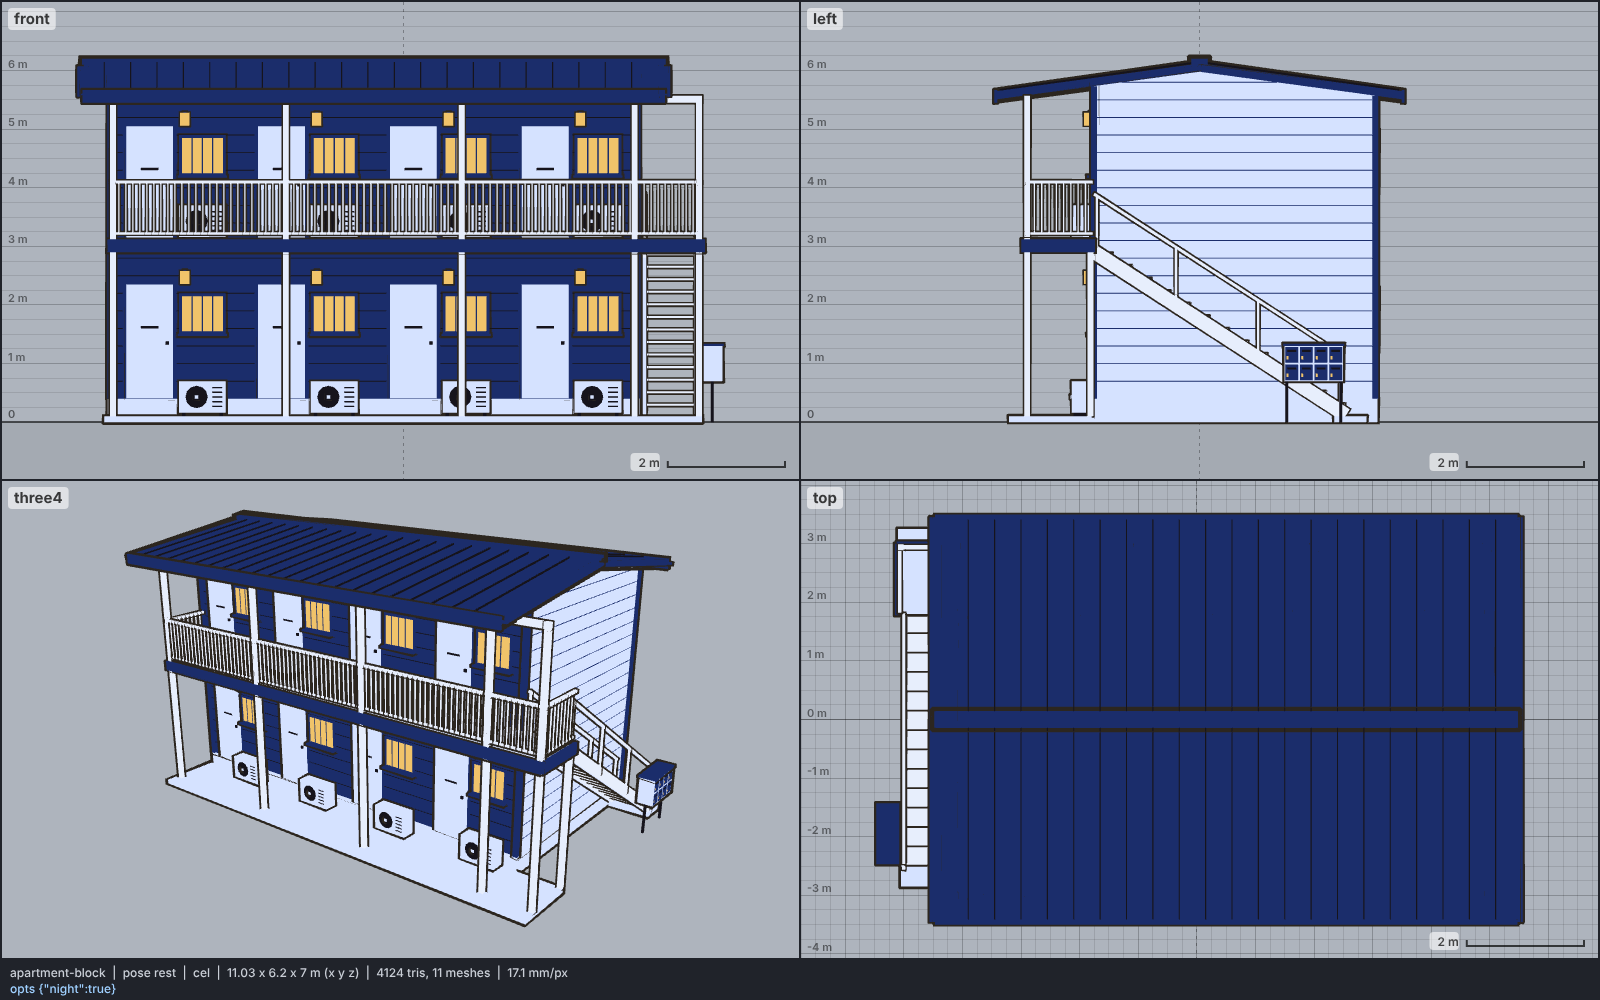
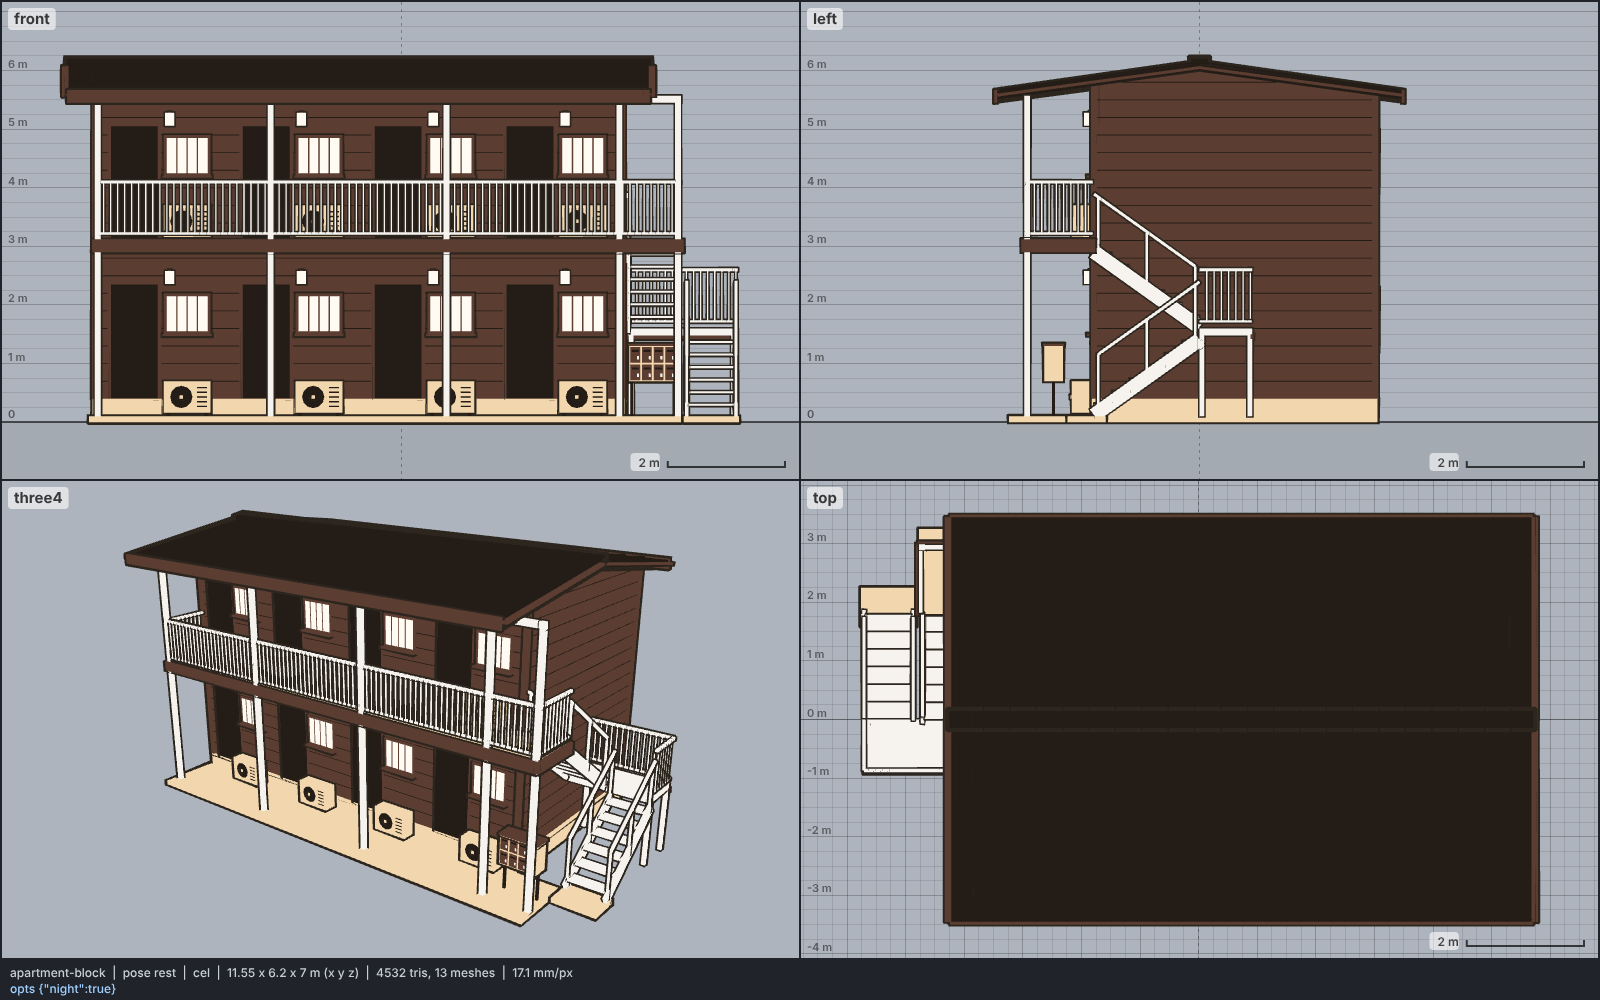
models: apartment-block, noon-only night and a switchback stair from the street end
Night now stays on the noon script (non-practicals flat in shade, siding iris,
lamps and frosted windows glow practical); no off-script colours on any shot.
The stair is a switchback whose foot faces the street; the mailboxes stand
under the landing beside it.

Claude-Session: https://claude.ai/code/session_01RarBCdt4E1fNHHaUKaW5GL

diff --git a/models/apartment-block.js b/models/apartment-block.js
@@ -11,30 +11,31 @@
 //   WALKWAY   the open second-floor corridor along the front on steel posts: a slab with a dark edge band, a steel
 //             railing (top and bottom rails, balusters every 0.12 m), returning at both ends; it runs on past the +X
 //             wall as the stair landing.
-//   STAIR     an external straight steel stair along the +X end wall, foot at the back, top at the landing: two
-//             channel stringers, open treads, a handrail on posts on both sides, a post under the landing.
+//   STAIR     an external switchback steel stair along the +X end wall: flight 1 (outer lane) climbs from its foot at
+//             the street end to a mid landing at the back, flight 2 (against the wall) climbs back onto the walkway
+//             landing. Channel stringers, open treads, handrails on posts on both sides, a railed mid landing on posts.
 //   UNITS     per unit and floor: a steel door in a frame (knob, mail slot), a door lamp on a bracket above it, a small
 //             frosted window with a grille, an AC outdoor unit (fan disc, grille bars) under the window; the 2F set
 //             stands on the walkway, the 1F set on the apron. Back walls get one sash window per unit and floor, the
-//             -X end one small window per floor. A row of mailboxes (one per unit) on legs at the foot of the stair.
+//             -X end one small window per floor. A bank of mailboxes (one per unit, two rows) on legs under the landing,
+//             beside the stair foot, facing the street.
 //   Every triangle is wound away from a point inside its solid (box centre, prism centroid, a point behind a flat
 //   quad), never by hand.
 // Proportions (real size, base unit the storey S = 2.7 m): walls 9.0 x 4.8, walkway 1.2 deep, overall ~10.4 x 6.8 at
 //   the eaves; 1F floor 0.4, 2F floor 3.1, eave 5.65, ridge cap top 6.2 (2.3 S); doors 0.8 x 1.95, windows 0.7 x 0.6,
-//   railing 1.0, stair 0.9 wide with 14 risers of 0.21 over a 4.3 m run (35 deg), mailboxes 0.25 x 0.28 x 0.35.
+//   railing 1.0, stair lanes 0.84 wide, 2 x 7 risers of 0.21 on 0.3 m treads (35 deg), mid landing 0.9 deep at 1.6,
+//   mailboxes 0.2 x 0.3 x 0.32 each.
 // Options: build(THREE, kit, colors, { height = 6.2, units = 4, night = false }).
 //   height  scales the whole building uniformly (the ridge cap's top).
 //   units   doors per floor, 2-4 (clamped); unit width 9 / units.
-//   night   the door lamps and the frosted windows glow (threshold -0.25, base only). With the default colours, night
-//           switches to meta.nightColors, the same roles on the indigo script; a film passing its own colours keeps
-//           them and only the glow changes.
-// Colours (noon by day): siding sky #f2d7ae / skin #f0c2ae (threshold 0.1, so the street face stays lit) with iris
+//   night   the sun goes off, still on noon: every part that is not a practical sits flat in its shade (threshold 2):
+//           roof and doors hair, steel sclera, concrete sky; the siding goes wallNight iris #5c3d32 flat with hair lines
+//           (its day shade, skin, is too close to sky to read as night); door lamps and frosted windows glow practical.
+// Colours (noon): siding sky #f2d7ae / skin #f0c2ae (threshold 0.1, so the street face stays lit) with iris
 //   #5c3d32 siding lines and corner trims; roof iris / hair #241c16 (0.25) with hair seams; doors iris / hair; steel
 //   (stair, railing, posts) moon #fff6e4 / sclera #f6f3ee with ink; walkway edge band, frames, grilles iris flat;
-//   frosted glass practical #fffaf2 / sclera; lamps moon; concrete and AC units sclera / sky; fan discs and slots hair.
-// Night (indigo): siding moon #d5e2ff / sky #1b2d6b at 0.35, so the street face goes navy and the lit gable end stays
-//   pale; lines sky / hair; steel line #e7eefc / moon; roof sky / hair; doors moon / sky; glass and lamps practical
-//   #f0c36a glowing; concrete moon / sky.
+//   frosted glass sclera / sky by day, practical #fffaf2 at night; lamps sclera / practical; concrete and AC units
+//   sclera / sky; fan discs and slots hair.
 
 export const meta = {
   name: "apartment-block",
@@ -48,23 +49,12 @@ export const meta = {
     door: "#5c3d32", doorShade: "#241c16",
     steel: "#fff6e4", steelShade: "#f6f3ee",
     trim: "#5c3d32",
-    glass: "#fffaf2", glassShade: "#f6f3ee",
-    lamp: "#fff6e4",
+    glass: "#f6f3ee", glassShade: "#f2d7ae",
+    lamp: "#f6f3ee",
+    glow: "#fffaf2",
+    wallNight: "#5c3d32",
     concrete: "#f6f3ee", concreteShade: "#f2d7ae",
     dark: "#241c16",
-  },
-  nightColors: {
-    wall: "#d5e2ff", wallShade: "#1b2d6b",
-    line: "#1b2d6b", lineShade: "#16141c",
-    roof: "#1b2d6b", roofShade: "#16141c",
-    seam: "#16141c",
-    door: "#d5e2ff", doorShade: "#1b2d6b",
-    steel: "#e7eefc", steelShade: "#d5e2ff",
-    trim: "#1b2d6b",
-    glass: "#f0c36a", glassShade: "#f0c36a",
-    lamp: "#f0c36a",
-    concrete: "#d5e2ff", concreteShade: "#1b2d6b",
-    dark: "#16141c",
   },
   poses: ["rest"],
 };
@@ -72,7 +62,7 @@ export const meta = {
 export function build(THREE, kit, colors = meta.colors, opts = {}) {
   const { height = meta.height, night = false } = opts;
   const units = Math.max(2, Math.min(4, Math.round(opts.units ?? 4)));
-  const c = night && colors === meta.colors ? meta.nightColors : colors;
+  const c = colors;
   const root = new THREE.Group();
   root.name = "apartment-block";
   const body = new THREE.Group(); // the uniform size scale lives here
@@ -80,7 +70,7 @@ export function build(THREE, kit, colors = meta.colors, opts = {}) {
   body.scale.setScalar(height / meta.height);
   root.add(body);
   const shift = new THREE.Group(); // centres the bbox (the stair and mailboxes stick out on +X)
-  shift.position.x = -0.5;
+  shift.position.x = -0.73;
   body.add(shift);
   const joints = {};
 
@@ -133,7 +123,7 @@ export function build(THREE, kit, colors = meta.colors, opts = {}) {
   // ---------- plan ----------
   const X0 = -4.5, X1 = 4.5, ZB = -3.0, ZF = 1.8, WZ = 3.0; // walls, walkway outer edge
   const F1 = 0.4, F2 = 3.1, RAIL = 1.0; // floor levels, railing height
-  const XL = 5.6; // the landing's +X edge
+  const XL = 5.5; // the landing's +X edge (over the stair's inner lane)
   const RZ = 3.45, RX0 = X0 - 0.45, RX1 = X1 + 0.45; // roof half-depth and ends
   const RT = 6.12, RP = (RT - 5.65) / RZ, RTH = 0.14; // ridge top, pitch, slab thickness
   const under = (z) => RT - RTH - RP * Math.abs(z); // roof underside
@@ -180,53 +170,69 @@ export function build(THREE, kit, colors = meta.colors, opts = {}) {
   for (const [z0, z1, x] of [[ZF, WZ, X0 - 0.02], [ZF - 0.02, WZ, XL + 0.02]]) box("trim", x - 0.03, x + 0.03, F2 - 0.2, F2 + 0.02, z0, z1);
   // posts from the apron to the roof
   for (const x of [X0 + 0.05, -1.5, 1.5, X1 - 0.05, XL - 0.05]) cbox("steel", x, (0.1 + under(WZ)) / 2, WZ - 0.06, 0.1, under(WZ) - 0.1, 0.1);
-  cbox("steel", XL - 0.05, (0.1 + F2) / 2, ZF + 0.06, 0.1, F2 - 0.1, 0.1); // under the landing's back corner
   beam("steel", [X0, under(WZ) - 0.06, WZ - 0.06], [XL, under(WZ) - 0.06, WZ - 0.06], 0.08, 0.12); // head beam
-  // railing: rails and balusters along the front, returns at both ends
-  const railRun = (a, b) => {
+  // railing: rails and balusters from a to b on a floor at y0
+  const railRun = (a, b, y0 = F2) => {
     const L = Math.hypot(b[0] - a[0], b[2] - a[2]);
-    beam("steel", [a[0], F2 + RAIL, a[2]], [b[0], F2 + RAIL, b[2]], 0.06, 0.05);
-    beam("steel", [a[0], F2 + 0.12, a[2]], [b[0], F2 + 0.12, b[2]], 0.04, 0.04);
+    beam("steel", [a[0], y0 + RAIL, a[2]], [b[0], y0 + RAIL, b[2]], 0.06, 0.05);
+    beam("steel", [a[0], y0 + 0.12, a[2]], [b[0], y0 + 0.12, b[2]], 0.04, 0.04);
     const n = Math.max(1, Math.round(L / 0.12));
     for (let i = 1; i < n; i++) {
       const t = i / n, x = a[0] + (b[0] - a[0]) * t, z = a[2] + (b[2] - a[2]) * t;
-      cbox("steel", x, F2 + (0.12 + RAIL) / 2, z, 0.022, RAIL - 0.12, 0.022);
+      cbox("steel", x, y0 + (0.12 + RAIL) / 2, z, 0.022, RAIL - 0.12, 0.022);
     }
   };
   railRun([X0 + 0.03, 0, WZ - 0.06], [XL - 0.03, 0, WZ - 0.06]);
   railRun([X0 + 0.03, 0, ZF + 0.05], [X0 + 0.03, 0, WZ - 0.06]);
   railRun([XL - 0.03, 0, ZF + 0.02], [XL - 0.03, 0, WZ - 0.06]);
 
-  // ---------- stair along the +X end ----------
-  const SX0 = 4.62, SX1 = 5.5, SZ0 = ZF - 4.3, NR = 14; // inner and outer stringer, foot
-  const rise = (F2 - 0.1) / NR, run = (ZF - SZ0) / (NR - 1);
-  const lineY = (z) => 0.1 + (rise * (z - SZ0)) / run; // through the tread nosings minus half a rise
-  for (let i = 1; i < NR; i++) {
-    const z0 = SZ0 + (i - 1) * run;
-    box("steel", SX0 + 0.04, SX1 - 0.04, 0.1 + i * rise - 0.035, 0.1 + i * rise, z0 + 0.02, z0 + run);
+  // ---------- switchback stair along the +X end ----------
+  // Flight 1 (outer lane) climbs from the street end toward the back to a mid landing; flight 2 (inner lane, against
+  // the wall) climbs back toward the street onto the walkway landing. 7 risers each, 0.3 m treads.
+  const NR = 7, rise = (F2 - 0.1) / (2 * NR), run = 0.3, FLEN = (NR - 1) * run;
+  const IN = [4.6, 5.44], OUT = [5.6, 6.44]; // stringer x of each lane
+  const MZ0 = ZF - FLEN - 0.9, MZ1 = ZF - FLEN, MY = 0.1 + NR * rise; // mid landing
+  // a flight from its foot at z = zf, climbing in direction dir from y0, between stringers xa and xb
+  function flight([xa, xb], zf, dir, y0) {
+    for (let i = 1; i < NR; i++) {
+      const z0 = zf + dir * (i - 1) * run, z1 = zf + dir * i * run;
+      box("steel", xa + 0.04, xb - 0.04, y0 + i * rise - 0.035, y0 + i * rise, Math.min(z0, z1) + 0.01, Math.max(z0, z1) - 0.01);
+    }
+    const ly = (z) => y0 + (rise * dir * (z - zf)) / run; // half a rise under the nosings
+    const ze = zf + dir * FLEN;
+    for (const x of [xa, xb]) {
+      beam("steel", [x, ly(zf) + 0.02, zf], [x, ly(ze) + 0.02, ze], 0.06, 0.24); // stringer
+      const hz = (z) => ly(z) + rise / 2 + 0.9;
+      for (const t of [0.04, 0.5, 0.96]) {
+        const z = zf + dir * FLEN * t;
+        beam("steel", [x, ly(z), z], [x, hz(z), z], 0.04, 0.04, [0, 0, 1]); // handrail posts
+      }
+      beam("steel", [x, hz(zf + dir * 0.04 * FLEN), zf + dir * 0.04 * FLEN], [x, hz(ze), ze], 0.05, 0.05); // handrail
+    }
   }
-  for (const x of [SX0, SX1]) {
-    beam("steel", [x, lineY(SZ0) + 0.02, SZ0], [x, lineY(ZF) + 0.02, ZF], 0.06, 0.24); // stringer
-    // handrail posts and the rail, 0.9 above the nosings, running into the landing railing
-    const hz = (z) => lineY(z) + rise / 2 + 0.9;
-    for (const z of [SZ0 + 0.1, SZ0 + 1.5, SZ0 + 2.9, ZF - 0.05]) beam("steel", [x, lineY(z), z], [x, hz(z), z], 0.04, 0.04, [0, 0, 1]);
-    beam("steel", [x, hz(SZ0 + 0.05), SZ0 + 0.05], [x, hz(ZF), ZF], 0.05, 0.05);
-  }
-  box("concrete", SX0 - 0.05, SX1 + 0.05, 0, 0.1, SZ0 - 0.35, SZ0 + 0.2); // foot pad
+  flight(OUT, ZF, -1, 0.1);
+  flight(IN, MZ1, 1, MY);
+  box("steel", IN[0], OUT[1], MY - 0.12, MY, MZ0, MZ1); // mid landing
+  box("trim", IN[0] - 0.01, OUT[1] + 0.01, MY - 0.18, MY - 0.1, MZ0 - 0.02, MZ0 + 0.03);
+  for (const [x, z] of [[OUT[1] - 0.04, MZ0 + 0.04], [OUT[1] - 0.04, MZ1 - 0.04], [IN[0] + 0.05, MZ0 + 0.04]])
+    cbox("steel", x, (0.1 + MY - 0.12) / 2, z, 0.08, MY - 0.22, 0.08);
+  railRun([IN[0] + 0.03, 0, MZ0 + 0.03], [OUT[1], 0, MZ0 + 0.03], MY);
+  railRun([OUT[1], 0, MZ0 + 0.03], [OUT[1], 0, MZ1], MY);
+  box("concrete", OUT[0] - 0.05, OUT[1] + 0.05, 0, 0.1, ZF - 0.2, ZF + 0.45); // foot pad
 
-  // ---------- mailboxes at the foot of the stair, facing +X ----------
-  const MX = 5.95, MD = 0.35, NM = units * 2, cols = Math.ceil(NM / 2), mw = 0.25;
-  const mz0 = SZ0 + 0.05, mz1 = mz0 + cols * mw;
-  for (const z of [mz0 + 0.04, mz1 - 0.04]) cbox("dark", MX - MD / 2, 0.35, z, 0.05, 0.7, 0.05); // legs
-  box("concrete", MX - MD, MX, 0.7, 1.3, mz0, mz1);
+  // ---------- mailboxes beside the stair foot, under the landing, facing the street ----------
+  const MW = 0.2, cols = units, MZ = WZ - 0.35, MD = 0.32;
+  const mx0 = (IN[0] + IN[1]) / 2 - (cols * MW) / 2, mx1 = mx0 + cols * MW;
+  for (const x of [mx0 + 0.04, mx1 - 0.04]) cbox("dark", x, 0.4, MZ - MD / 2, 0.05, 0.6, 0.05); // legs
+  box("concrete", mx0, mx1, 0.7, 1.3, MZ - MD, MZ);
   for (let r = 0; r < 2; r++)
     for (let k = 0; k < cols; k++) {
-      const z = mz0 + k * mw, y = 0.7 + r * 0.3;
-      fx("grille", z + 0.015, z + mw - 0.015, y + 0.015, y + 0.285, MX + 0.004); // door
-      fx("dark", z + 0.05, z + mw - 0.05, y + 0.2, y + 0.235, MX + 0.008); // slot
-      fx("lamp", z + mw - 0.07, z + mw - 0.035, y + 0.07, y + 0.13, MX + 0.008); // name card
+      const x = mx0 + k * MW, y = 0.7 + r * 0.3;
+      fz("grille", x + 0.015, x + MW - 0.015, y + 0.015, y + 0.285, MZ + 0.004); // door
+      fz("dark", x + 0.04, x + MW - 0.04, y + 0.2, y + 0.235, MZ + 0.008); // slot
+      fz("card", x + MW - 0.07, x + MW - 0.035, y + 0.07, y + 0.13, MZ + 0.008); // name card
     }
-  box("trim", MX - MD - 0.02, MX + 0.02, 1.3, 1.34, mz0 - 0.02, mz1 + 0.02); // top cap
+  box("trim", mx0 - 0.02, mx1 + 0.02, 1.3, 1.34, MZ - MD - 0.02, MZ + 0.02); // top cap
 
   // ---------- units ----------
   const W = (X1 - X0) / units;
@@ -277,21 +283,22 @@ export function build(THREE, kit, colors = meta.colors, opts = {}) {
 
   // ---------- meshes ----------
   // [base, shade, threshold, hull px (0 = none)]; equal looks share one mesh.
-  const G = -0.25;
-  const wallT = night ? 0.35 : 0.1;
+  // night: the sun is off, so every part that is not a practical sits flat in its shade (threshold 2)
+  const G = -0.25, T = (t) => (night ? 2 : t);
   const MAT = {
-    wall: [c.wall, c.wallShade, wallT, 5],
-    line: [c.line, c.lineShade, wallT, 0],
-    roof: [c.roof, c.roofShade, 0.25, 5],
+    wall: night ? [c.wallNight, c.wallNight, 2, 5] : [c.wall, c.wallShade, 0.1, 5],
+    line: night ? [c.seam, c.seam, 2, 0] : [c.line, c.lineShade, 0.1, 0],
+    roof: [c.roof, c.roofShade, T(0.25), 5],
     seam: [c.seam, c.seam, G, 0],
     trim: [c.trim, c.trim, G, 2.5],
     grille: [c.trim, c.trim, G, 0],
-    door: [c.door, c.doorShade, 0.1, 2.5],
-    steel: [c.steel, c.steelShade, 0.1, 2],
-    glass: night ? [c.glass, c.glass, G, 0] : [c.glass, c.glassShade, 0.1, 0],
-    lamp: [c.lamp, c.lamp, G, 2],
-    concrete: [c.concrete, c.concreteShade, 0.1, 3],
-    ac: [c.concrete, c.concreteShade, 0.1, 2.5],
+    door: [c.door, c.doorShade, T(0.1), 2.5],
+    steel: [c.steel, c.steelShade, T(0.1), 2],
+    card: [c.steel, c.steelShade, T(0.1), 0],
+    glass: night ? [c.glow, c.glow, G, 0] : [c.glass, c.glassShade, 0.1, 0],
+    lamp: night ? [c.glow, c.glow, G, 2] : [c.lamp, c.lamp, G, 2],
+    concrete: [c.concrete, c.concreteShade, T(0.1), 3],
+    ac: [c.concrete, c.concreteShade, T(0.1), 2.5],
     dark: [c.dark, c.dark, G, 0],
   };
   const groups = {};
